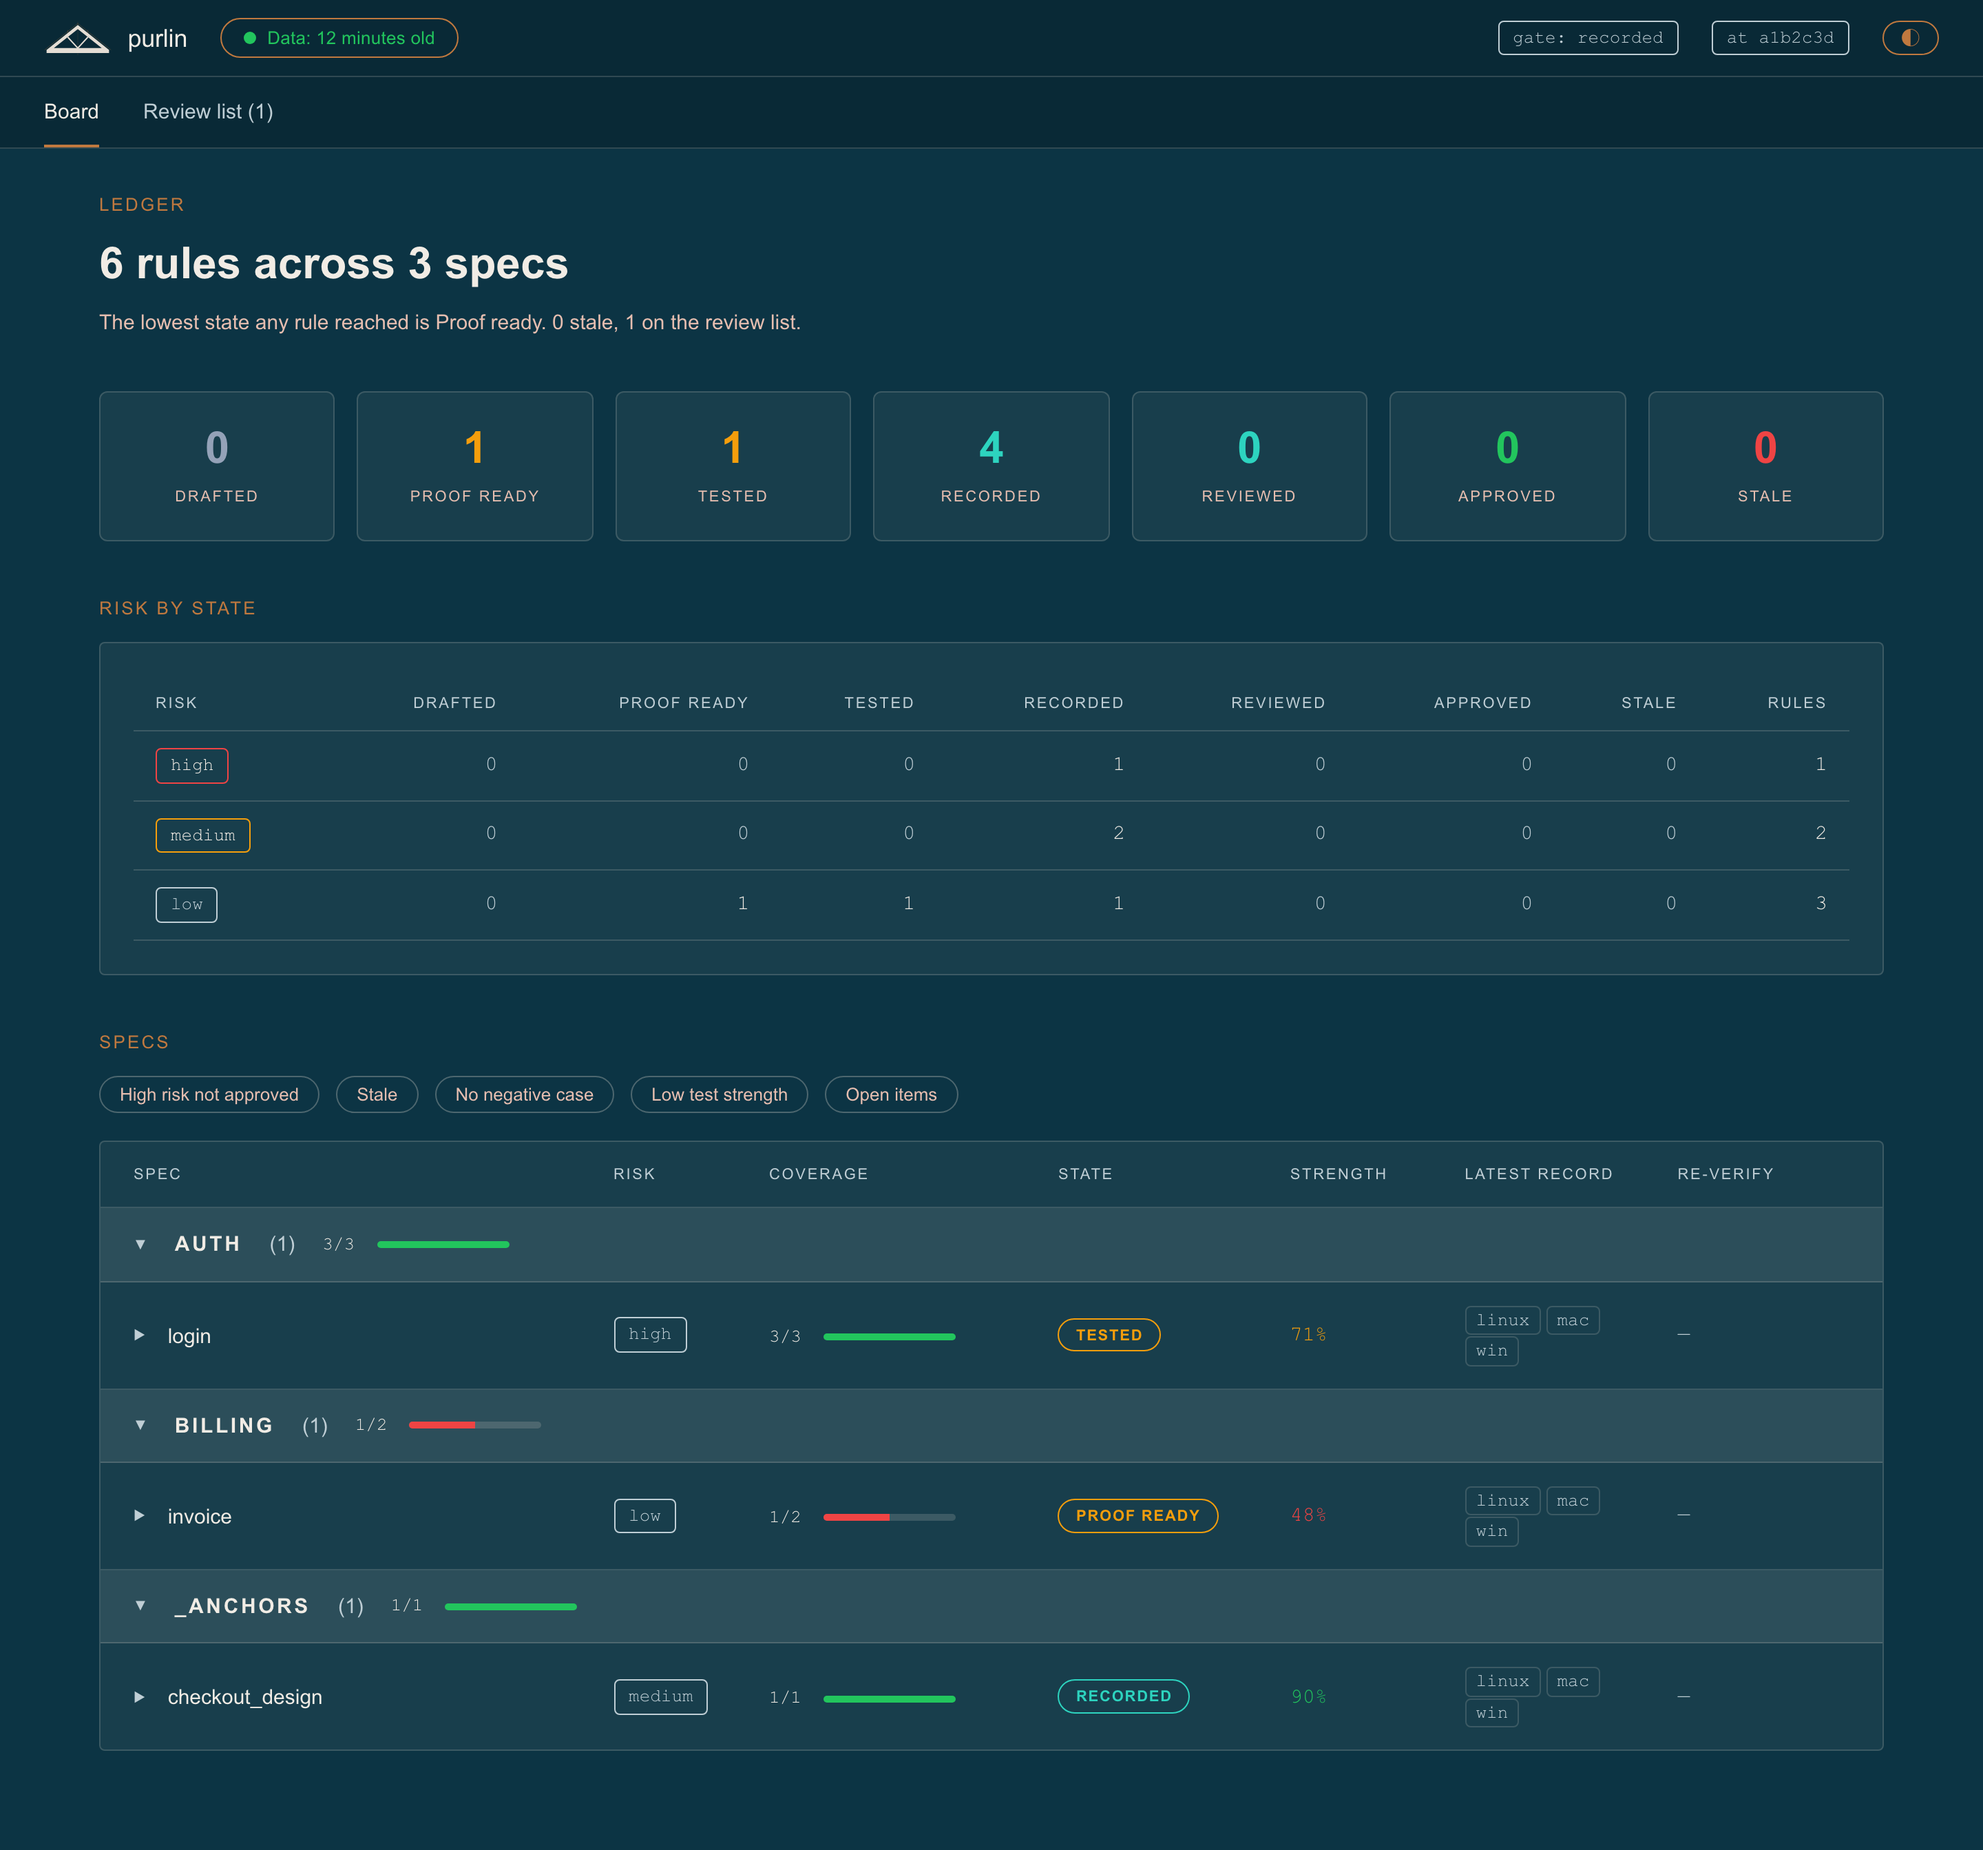
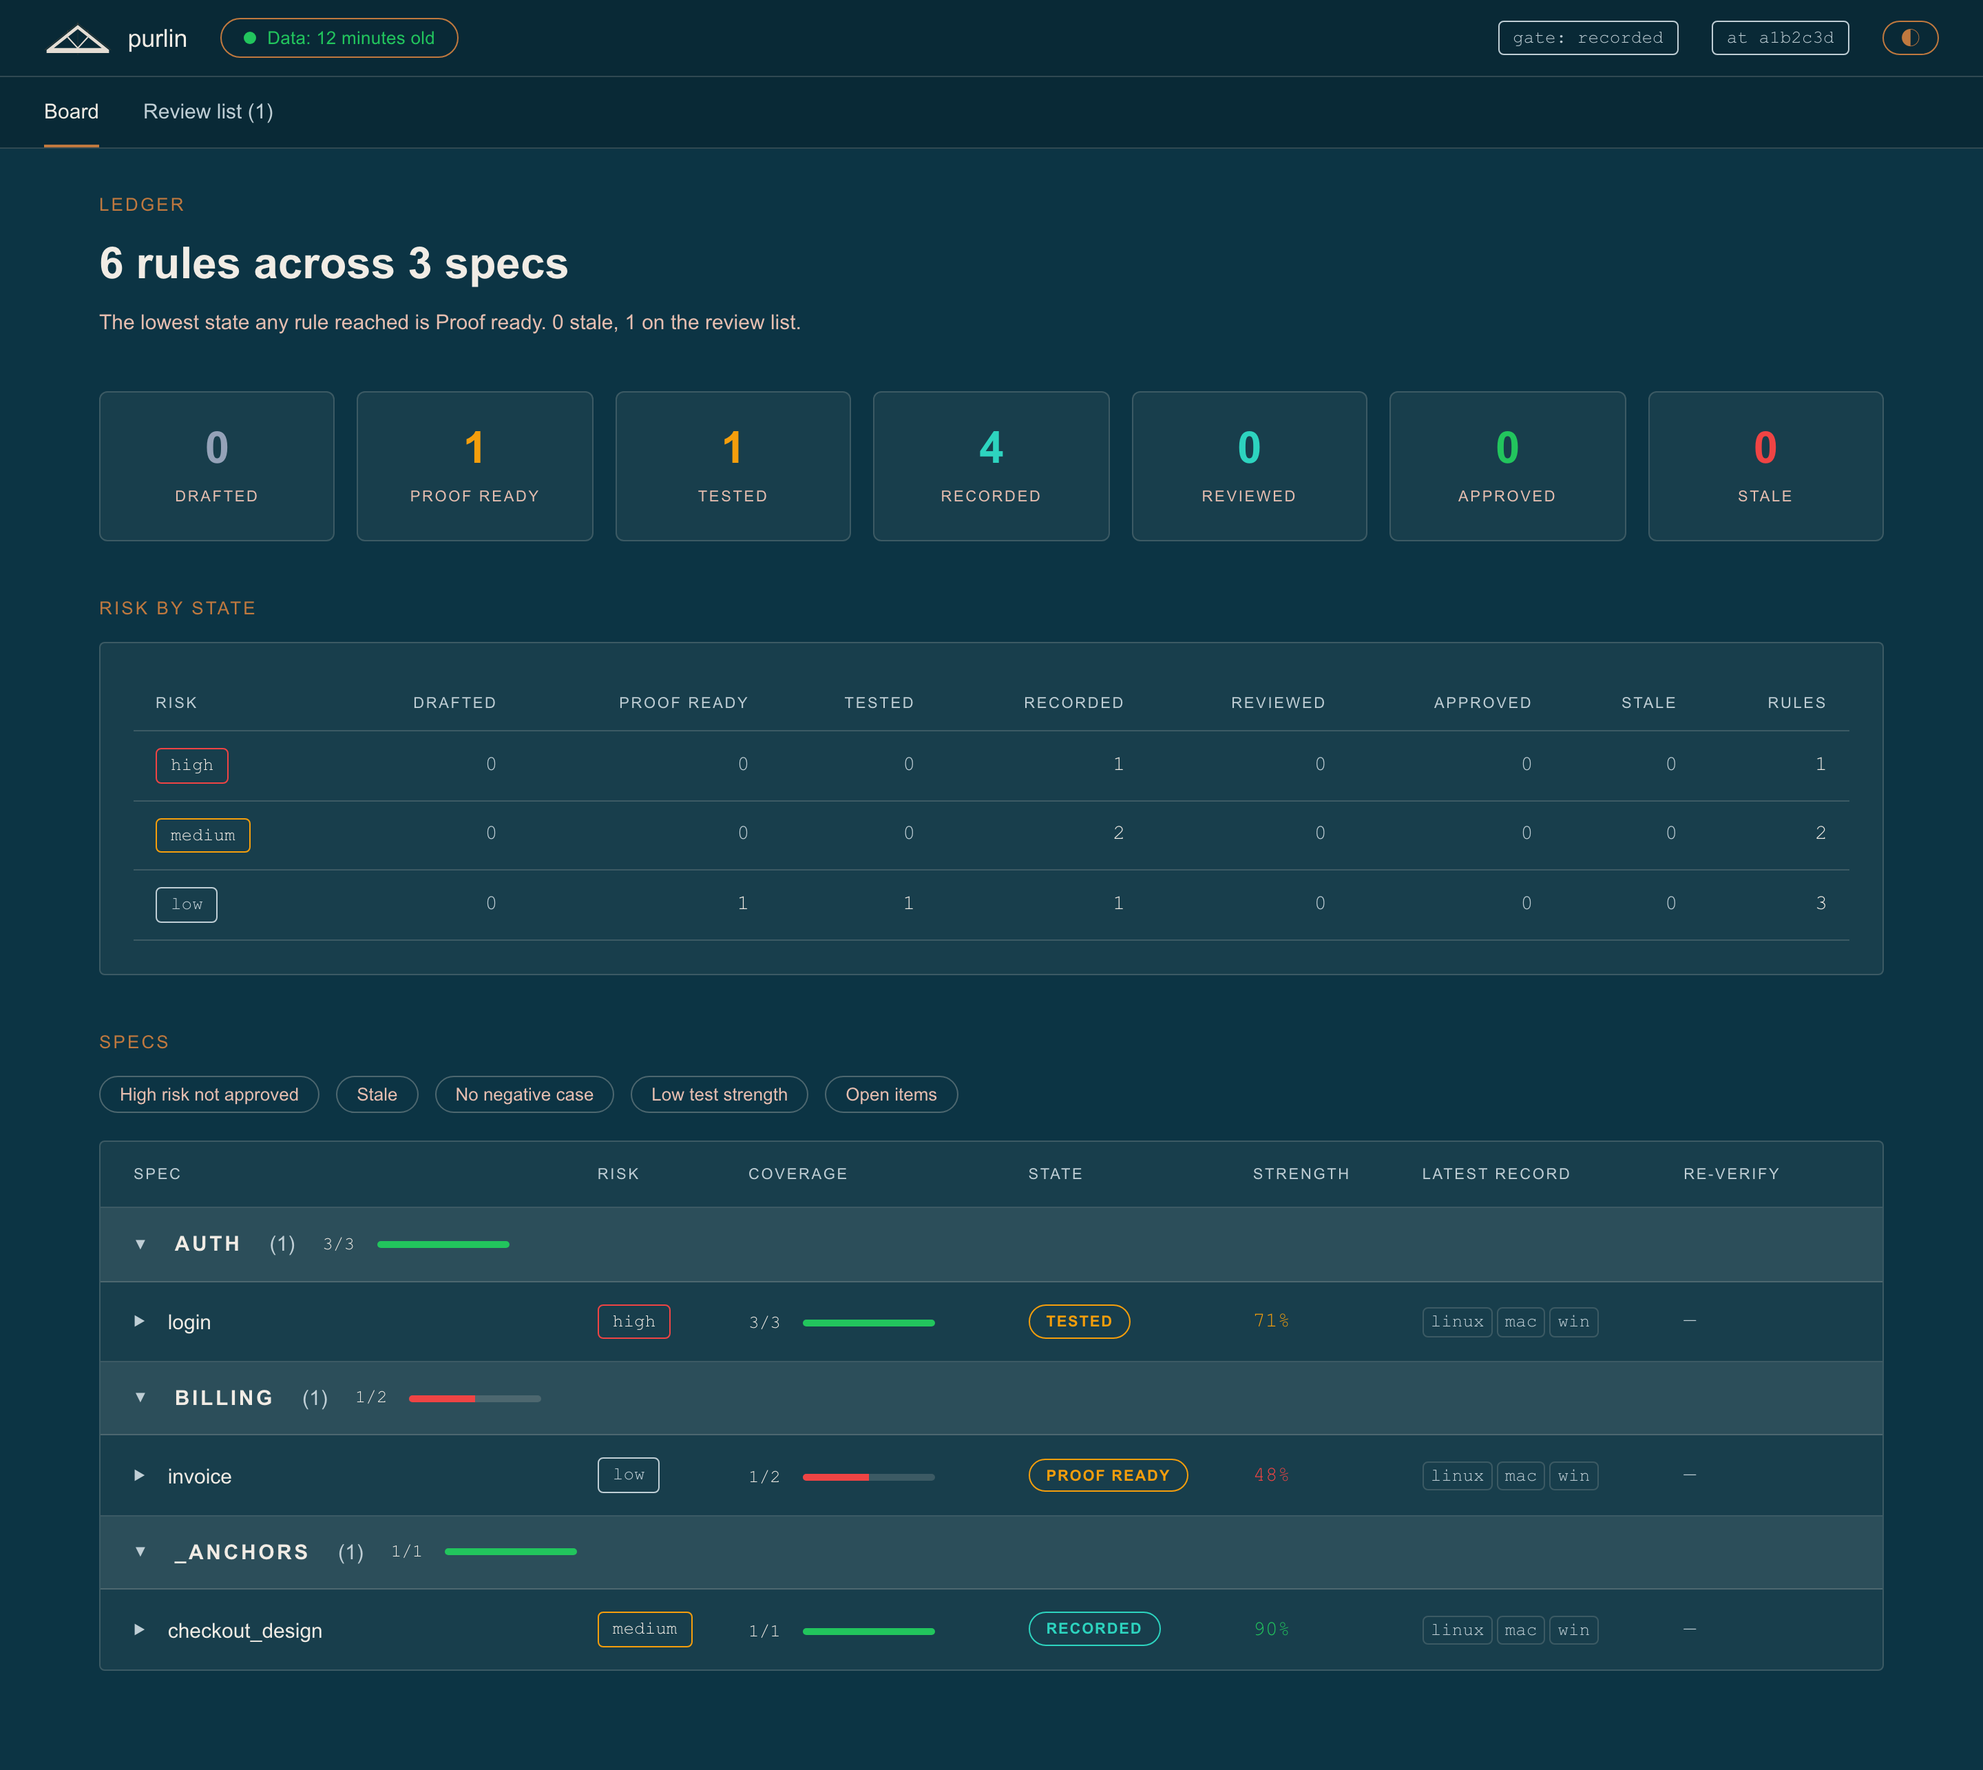
feat(purlin_report): the spec row's risk tag carries its tint, and the three boxes fit one line
Claude-Session: https://claude.ai/code/session_01PA1RaoK77G1rNdVdQbavg6

diff --git a/scripts/report/purlin-report.html b/scripts/report/purlin-report.html
@@ -227,7 +227,7 @@ h2{font-size:var(--ui-lg);font-weight:var(--weight-bold);margin:0 0 var(--space-
 .tag.risk-high{border-color:var(--state-fail)}
 .tag.risk-medium{border-color:var(--state-warn)}
 .tag.risk-low{border-color:var(--text-muted);color:var(--text-muted)}
-.os{display:inline-flex;align-items:center;font-family:var(--font-mono);font-size:var(--ui-sm);padding:1px 7px;border-radius:var(--radius-sm);border:1px solid;margin-right:4px;white-space:nowrap}
+.os{display:inline-flex;align-items:center;font-family:var(--font-mono);font-size:var(--ui-sm);padding:0 5px;border-radius:var(--radius-sm);border:1px solid;margin-right:3px;white-space:nowrap;line-height:1.5}
 .os.pass{border-color:var(--state-pass);color:var(--state-pass)}
 .os.fail{border-color:var(--state-fail);color:var(--state-fail)}
 .os.none{border-color:var(--border-hairline);color:var(--text-muted)}
@@ -422,7 +422,7 @@ function boardColumns() {
   columns.push({label: 'State', width: '1.1fr'});
   if (hasRecords()) {
     columns.push({label: 'Strength', width: '0.8fr'});
-    columns.push({label: 'Latest record', width: '1fr'});
+    columns.push({label: 'Latest record', width: '1.3fr'});
     columns.push({label: 'Re-verify', width: '0.9fr'});
   }
   if (hasApprovals()) {
@@ -444,7 +444,7 @@ function featureRow(feature, columns) {
   var cells = ['<span class="name"><span class="caret">'
     + (open ? '▼' : '▶') + '</span>' + designThumb(feature)
     + '<span class="n">' + esc(feature.name) + '</span></span>'];
-  if (hasRisks()) { cells.push(tag(highestRisk(feature), true)); }
+  if (hasRisks()) { cells.push(riskTag(highestRisk(feature))); }
   cells.push(coverage(rollup.proved || 0, rollup.rules || 0));
   cells.push(pill(rollup.lowest_state || 'Drafted'));
   if (hasRecords()) {

diff --git a/scripts/report/src/board.js b/scripts/report/src/board.js
@@ -57,7 +57,7 @@ function boardColumns() {
   columns.push({label: 'State', width: '1.1fr'});
   if (hasRecords()) {
     columns.push({label: 'Strength', width: '0.8fr'});
-    columns.push({label: 'Latest record', width: '1fr'});
+    columns.push({label: 'Latest record', width: '1.3fr'});
     columns.push({label: 'Re-verify', width: '0.9fr'});
   }
   if (hasApprovals()) {
@@ -81,7 +81,7 @@ function featureRow(feature, columns) {
   var cells = ['<span class="name"><span class="caret">'
     + (open ? '▼' : '▶') + '</span>' + designThumb(feature)
     + '<span class="n">' + esc(feature.name) + '</span></span>'];
-  if (hasRisks()) { cells.push(tag(highestRisk(feature), true)); }
+  if (hasRisks()) { cells.push(riskTag(highestRisk(feature))); }
   cells.push(coverage(rollup.proved || 0, rollup.rules || 0));
   cells.push(pill(rollup.lowest_state || 'Drafted'));
   if (hasRecords()) {

diff --git a/scripts/report/src/styles.css b/scripts/report/src/styles.css
@@ -30,7 +30,7 @@ h2{font-size:var(--ui-lg);font-weight:var(--weight-bold);margin:0 0 var(--space-
 .tag.risk-high{border-color:var(--state-fail)}
 .tag.risk-medium{border-color:var(--state-warn)}
 .tag.risk-low{border-color:var(--text-muted);color:var(--text-muted)}
-.os{display:inline-flex;align-items:center;font-family:var(--font-mono);font-size:var(--ui-sm);padding:1px 7px;border-radius:var(--radius-sm);border:1px solid;margin-right:4px;white-space:nowrap}
+.os{display:inline-flex;align-items:center;font-family:var(--font-mono);font-size:var(--ui-sm);padding:0 5px;border-radius:var(--radius-sm);border:1px solid;margin-right:3px;white-space:nowrap;line-height:1.5}
 .os.pass{border-color:var(--state-pass);color:var(--state-pass)}
 .os.fail{border-color:var(--state-fail);color:var(--state-fail)}
 .os.none{border-color:var(--border-hairline);color:var(--text-muted)}
